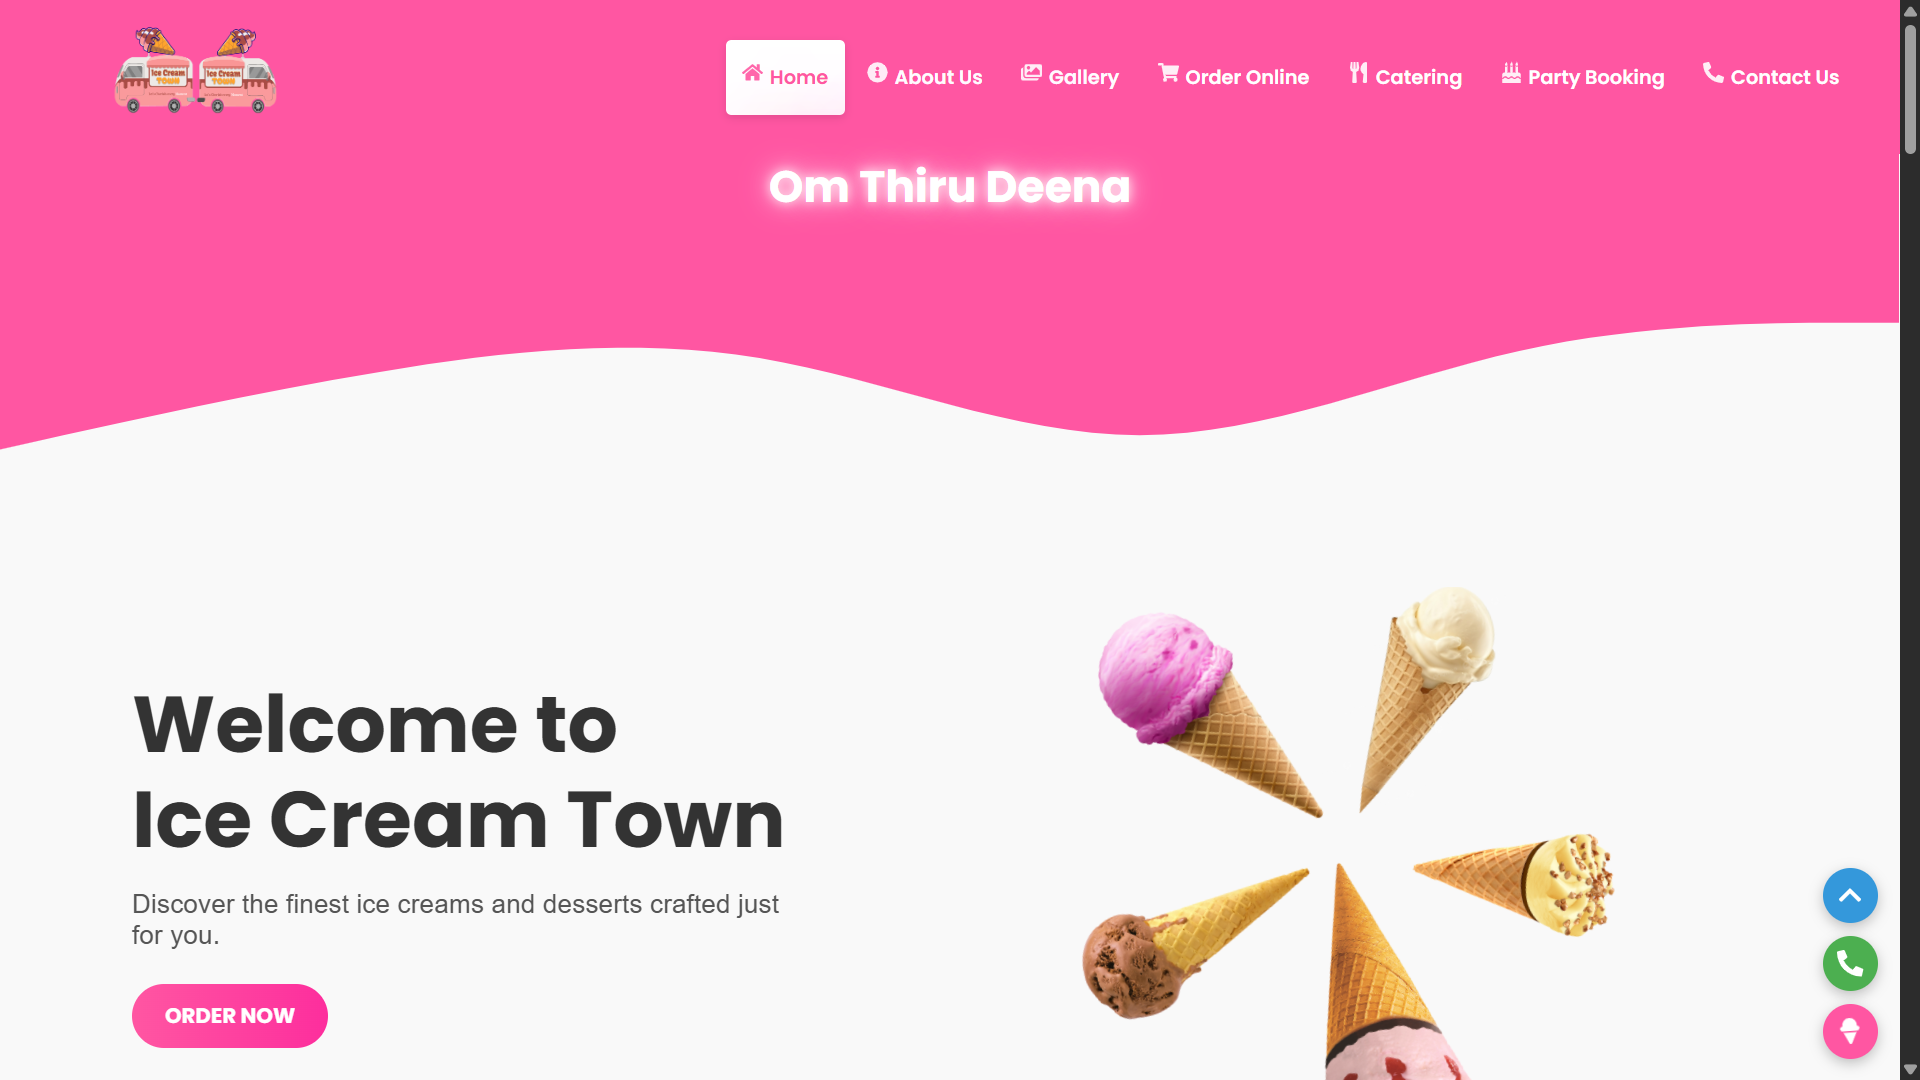
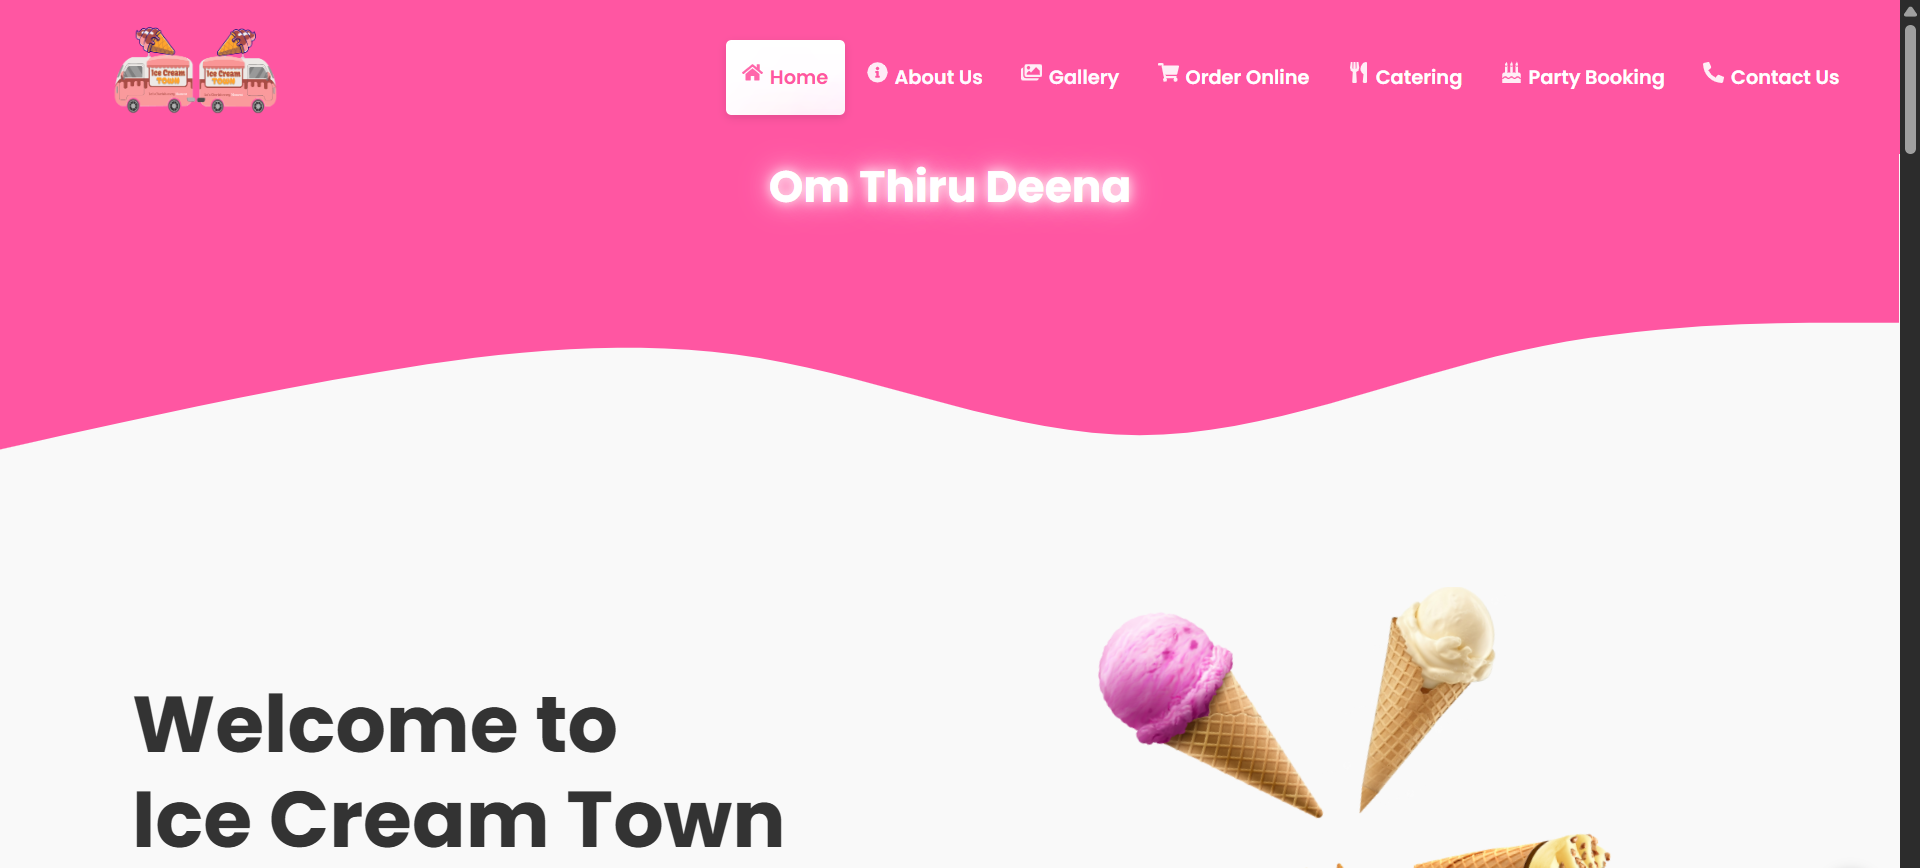
new changes

diff --git a/src/components/ProjectsSection.tsx b/src/components/ProjectsSection.tsx
@@ -3,7 +3,8 @@ import { cn } from '@/lib/utils';
 import marvelSnaps from '../assest/project img/marvelsnaps.png';
 import iceCreamTown from '../assest/project img/ice cream town.png';
 import safetyFirst from '../assest/project img/safetyfirst.png';
-
+import weatherApp from '../assest/project img/weather.png';
+import portfolioImage from '../assest/project img/portfolio.png';
 const ProjectsSection = () => {
   return (
     <section id="projects" className="bg-gradient-to-br from-[#f9f9f9] to-white dark:from-gray-900 dark:to-gray-800 py-16 md:py-24">
@@ -82,30 +83,38 @@ const projects = [
     title: "Marvel Snaps",
     description: "A React.js-based photographer portfolio site featuring an attractive UI, optimized code, WhatsApp API integration, and hosted on Vercel for fast performance.",
     image: marvelSnaps,
-    technologies: ["React", "CSS","Github", "Vercel"],
-    link: "#"
+    technologies: ["React", "Javascript","CSS","Github", "Vercel", "Cursor AI"],
+    link: "http://marvelsnaps.in/"
   },
   {
     title: "Ice Cream Town",
     description: "A delightful ice cream shop website with a menu, online ordering, and a attractive design.",
     image: iceCreamTown,
-    technologies: ["React", "CSS", "Github", "Vercel"],
-    link: "#"
+    technologies: ["React", "JSX", "CSS", "Github", "Vercel", "Github Copilot"],
+    link: "http://icecreamtown.in/"
   },
   {
     title: "Safety First",
     description: "A Mental Well-being Platform for Women and Children with real-time messaging, post sharing, Safety resources and Free Mental Health Resources.",
     image: safetyFirst,
-    technologies: ["React", "Firebase", "CSS", "Github", "Vercel"],
-    link: "#"
+    technologies: ["React","Firebase", "CSS", "Github", "Vercel", "Github Copilot"],
+    link: "https://projectsafetyfirst.vercel.app/"
   },
   {
-    title: "Task Management Tool",
-    description: "A collaborative project management tool with task tracking, team management, and reporting features.",
-    image: "https://images.unsplash.com/photo-1498050108023-c5249f4df085?auto=format&fit=crop&q=80&w=800",
-    technologies: ["Vue.js", "Laravel", "MySQL", "Tailwind CSS"],
-    link: "#"
-  }
+    title: "React Weather App",
+    description: "A weather application built with React.js, providing real-time weather updates and forecasts by using OpenWeatherMap API.",
+    image: weatherApp,
+    technologies: ["React","OpenWeather API", "Github", "Vercel", "Github Copilot"],
+    link: "https://weather-five-rho.vercel.app/"
+  }, 
+  {
+  title: "Personal Portfolio Website",
+  description: "A fully responsive portfolio website built using React.js and Typescript to showcase projects, skills, and contact information.",
+  image: portfolioImage, // Replace with your actual image variable or path
+  technologies: ["React", "Tailwaind CSS","Typescript","GitHub", "Vercel", "Lovable"],
+  link: "https://dineshraja.vercel.app/" // Replace with your actual portfolio URL
+}
+
 ];
 
 export default ProjectsSection;
